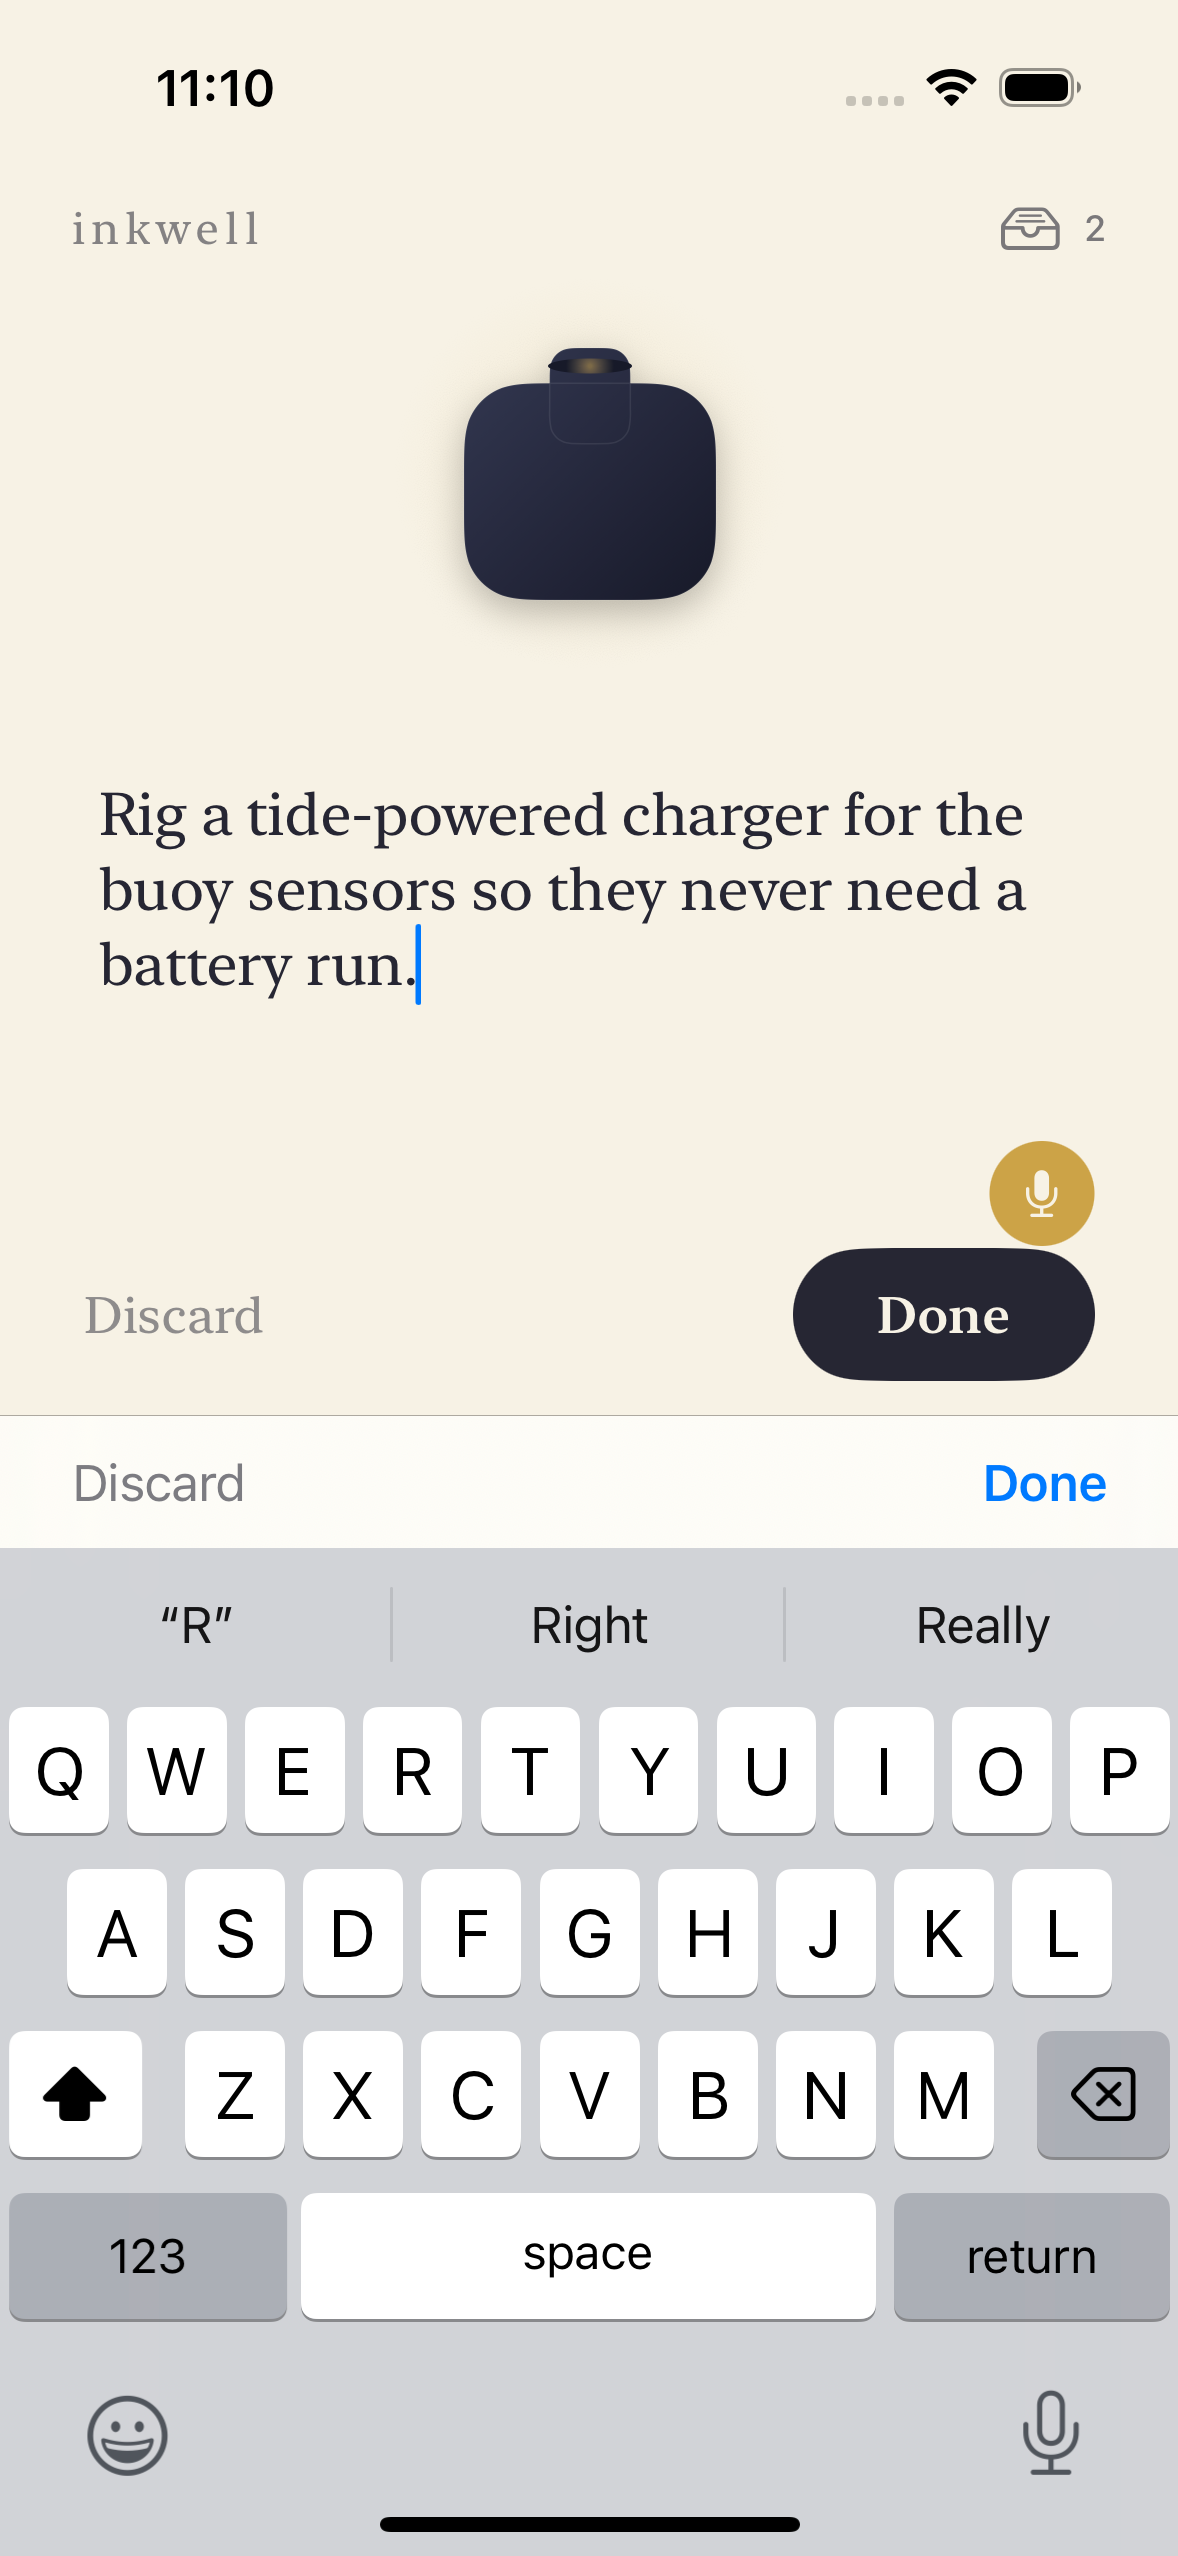
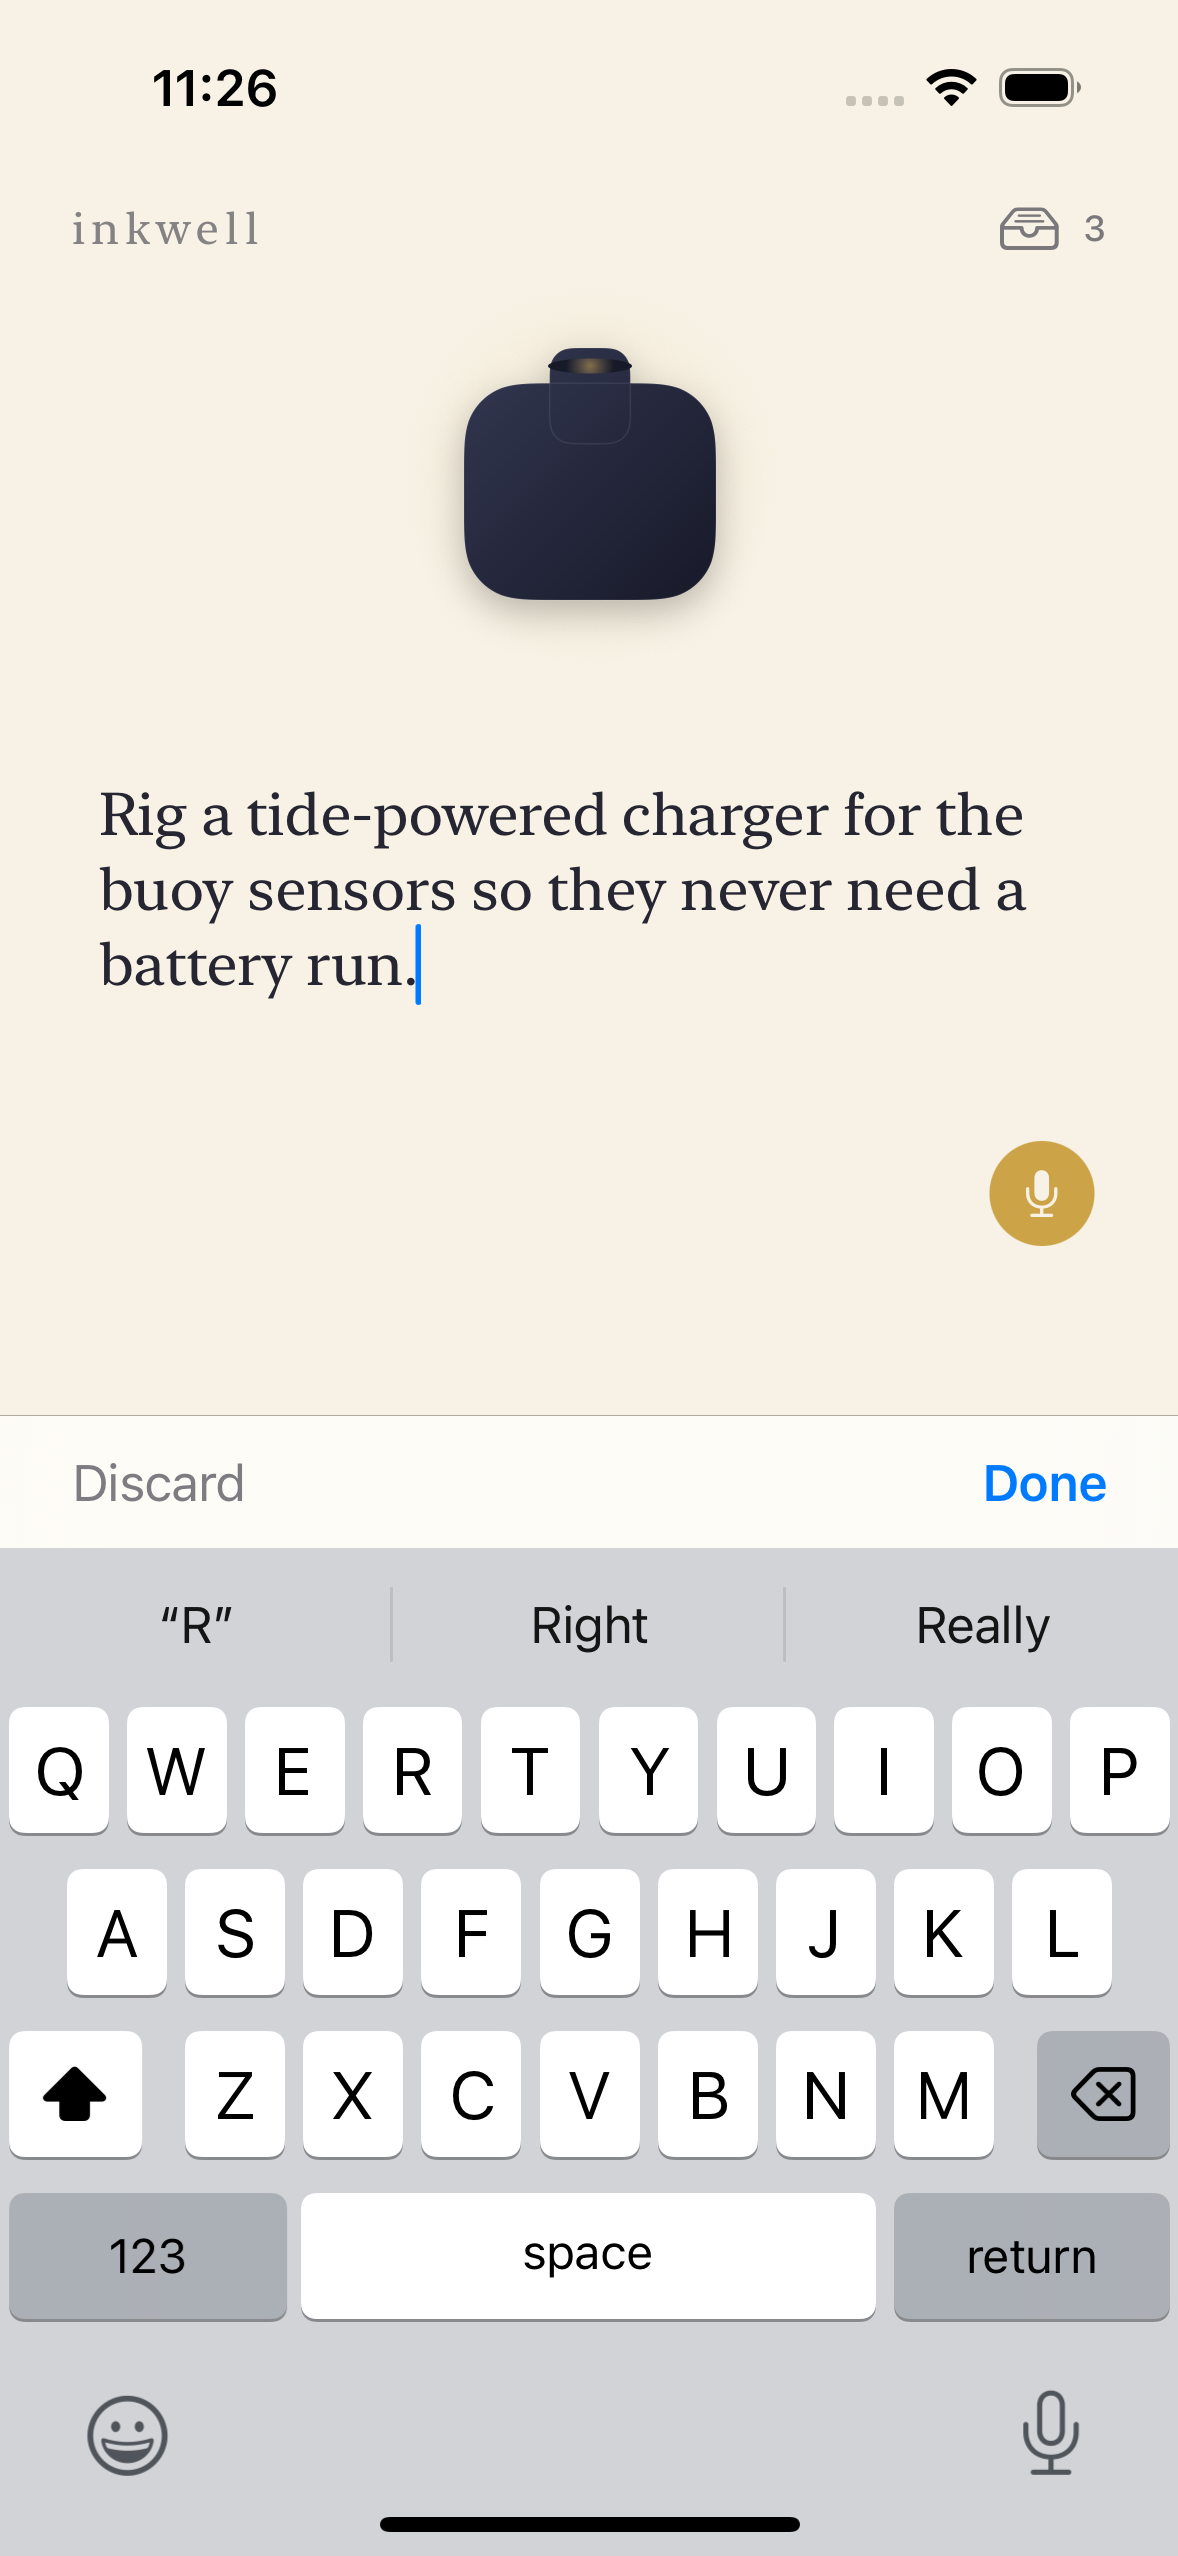
no-mistakes(review): Cover interruption engine-stop, fix vacuous assertion and duplicate controls

Changed region(s): [[0.6723, 0.4636, 0.9474, 0.5563], [0.0611, 0.4945, 0.2139, 0.5254], [0.1528, 0.0309, 0.2445, 0.0618]]

diff --git a/ios/Inkwell/Capture/CaptureView.swift b/ios/Inkwell/Capture/CaptureView.swift
@@ -31,9 +31,8 @@ struct CaptureView: View {
             // pushed the wordmark and tray icon out of the safe area and onto
             // the status bar. Overlaying it on a view that keeps the size it
             // was offered decouples the two: the header stays pinned below
-            // the status bar and the overflow can only run downward, behind
-            // the keyboard, where the toolbar accessory already carries
-            // Discard and Done.
+            // the status bar, the footer stays above the keyboard, and the
+            // transcript in between absorbs whatever room is left.
             Color.clear.overlay(alignment: .top) {
                 VStack(spacing: 0) {
                     header
@@ -164,9 +163,10 @@ struct CaptureView: View {
                     .onAppear { editorFocused = true }
                     .accessibilityIdentifier("transcriptEditor")
                     .toolbar {
-                        // The footer's Done button sits behind the keyboard
-                        // while editing - keep it reachable without forcing
-                        // a keyboard dismissal first.
+                        // Discard and Done within thumb reach of the keys,
+                        // rather than making the owner reach past the
+                        // keyboard for the footer's pair - which stands down
+                        // while these are showing.
                         ToolbarItemGroup(placement: .keyboard) {
                             Button("Discard") {
                                 editorFocused = false
@@ -202,9 +202,17 @@ struct CaptureView: View {
         Binding(get: { viewModel.committedText }, set: { viewModel.updateCommittedText($0) })
     }
 
+    /// The keyboard accessory carries its own Discard and Done while the
+    /// editor holds focus. Now that the column is bounded and the footer
+    /// survives above the keyboard rather than hiding behind it, showing both
+    /// puts two identical control sets a few points apart.
+    private var isEditingWithKeyboard: Bool {
+        viewModel.mode == .editing && editorFocused
+    }
+
     private var footer: some View {
         HStack(spacing: 16) {
-            if viewModel.hasContent {
+            if viewModel.hasContent && !isEditingWithKeyboard {
                 Button("Discard") {
                     editorFocused = false
                     viewModel.discard()
@@ -229,6 +237,7 @@ struct CaptureView: View {
         .padding(.horizontal, 28)
         .frame(height: 44)
         .animation(.easeInOut(duration: 0.2), value: viewModel.hasContent)
+        .animation(.easeInOut(duration: 0.2), value: editorFocused)
     }
 
     private var confirmationToast: some View {

diff --git a/ios/InkwellTests/CaptureViewModelTests.swift b/ios/InkwellTests/CaptureViewModelTests.swift
@@ -132,6 +132,36 @@ final class CaptureViewModelTests: XCTestCase {
         try await waitUntil(timeout: 2) { viewModel.isListening }
     }
 
+    /// The interruption contract: whoever reports the interruption owes no
+    /// promise about having torn the segment down first. The real engine
+    /// happens to stop itself before calling in, but the view model must not
+    /// lean on that - it has to end the segment itself, or a notifier that
+    /// doesn't (an app-lifecycle hook, a future route-change observer) leaves
+    /// the mic live behind an editing screen.
+    func testInterruptionStopsTheEngineEvenWhenItIsStillCapturing() async throws {
+        let store = try makeStore()
+        let engine = FakeCaptureEngine()
+        let viewModel = CaptureViewModel(store: store, engine: engine)
+
+        viewModel.tapInkwell()
+        try await waitUntil(timeout: 2) { viewModel.isListening }
+        engine.transcript = "Reroute the swim line around the mooring"
+        XCTAssertTrue(engine.isCapturing, "the segment is running - otherwise this proves nothing")
+
+        engine.interruptWithoutStopping()
+        try await waitUntil(timeout: 2) { !viewModel.isListening }
+
+        XCTAssertFalse(
+            engine.isCapturing,
+            "the view model must stop the engine itself rather than assume the interruption already did"
+        )
+        XCTAssertEqual(
+            viewModel.committedText, "Reroute the swim line around the mooring",
+            "words heard before the interruption must survive it"
+        )
+        XCTAssertEqual(viewModel.mode, .editing)
+    }
+
     /// An interruption a moment after tapping the well, before any words
     /// were heard, must not strand the owner in an empty editor with the
     /// keyboard up - there is nothing there to edit.
@@ -209,6 +239,12 @@ private final class FakeCaptureEngine: CaptureEngine, @unchecked Sendable {
     /// then tell the owner the segment is over.
     func interrupt() {
         stopCapturing()
+        onInterruption?()
+    }
+
+    /// The same notification from a source that has *not* stopped the engine
+    /// first - nothing in the protocol promises it has.
+    func interruptWithoutStopping() {
         onInterruption?()
     }
 }

diff --git a/ios/InkwellUITests/LongDictationLayoutUITests.swift b/ios/InkwellUITests/LongDictationLayoutUITests.swift
@@ -68,8 +68,15 @@ final class LongDictationLayoutUITests: XCTestCase {
 
         // And scrolling back up still finds the well where it should be -
         // nothing about auto-scroll should strand it unreachably off-screen.
-        app.swipeDown()
-        XCTAssertTrue(inkwell.waitForExistence(timeout: 2), "the well must still be reachable by scrolling back up")
+        // Existence proves nothing here: content scrolled out of a SwiftUI
+        // ScrollView stays in the accessibility tree either way, so only
+        // hittability says where the well actually is.
+        var swipesRemaining = 5
+        while !inkwell.isHittable && swipesRemaining > 0 {
+            app.swipeDown()
+            swipesRemaining -= 1
+        }
+        XCTAssertTrue(inkwell.isHittable, "the well must scroll back into view, not be stranded off-screen by auto-scroll")
 
         // Clean up rather than leave a long draft (or save it) behind - the
         // footer's Discard is reachable directly from .listening.
